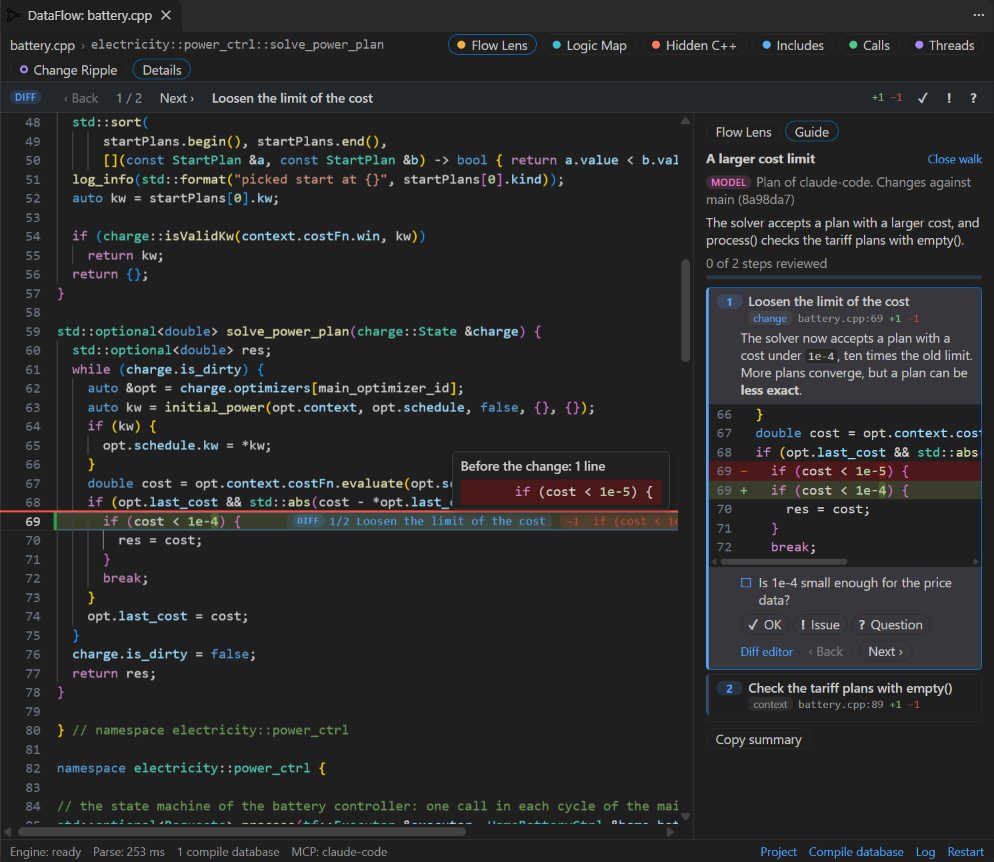
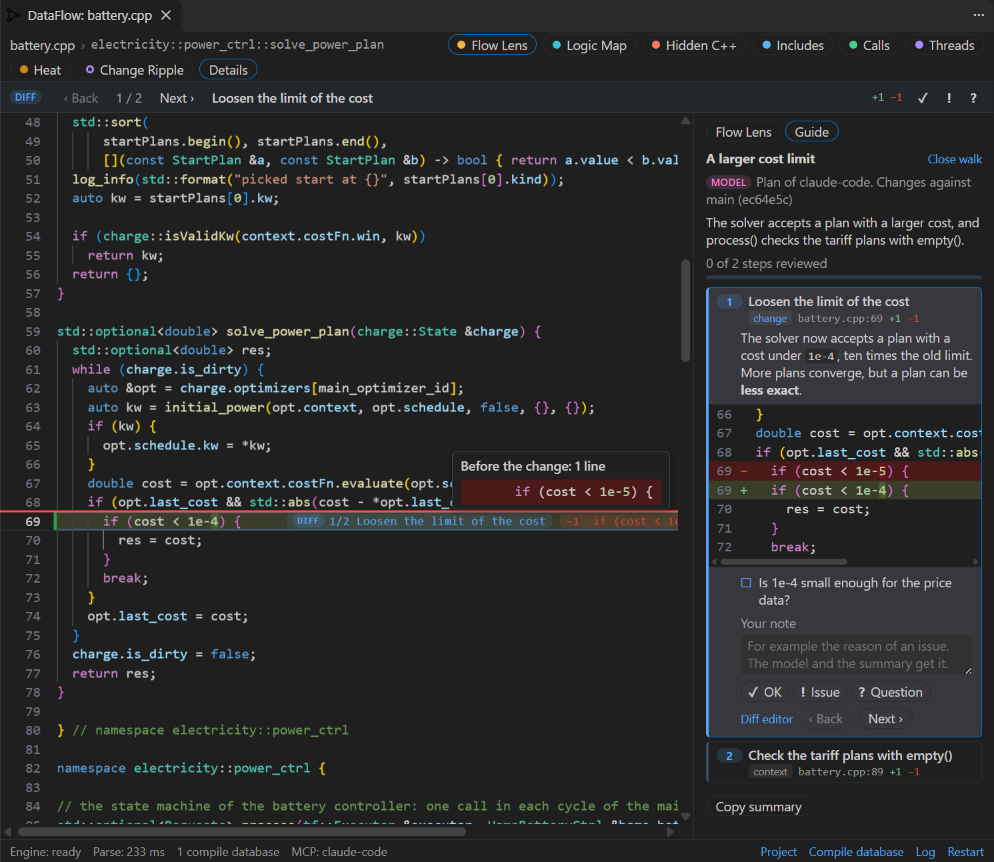
Set the version to 0.6.0 for the seventh release
- The extension and the engine have the version 0.6.0.
- The changelog gives the changes of 0.6.0: the layers of the
  clients, the stack of guides, the marks, the new read tools
  get_call_graph, get_callers, get_place and get_member_sites, the
  index of the uses in the call graph, and the tools and the tab of
  an extension.
- The install guide shows the file name of the new VSIX package.
- The screenshots of the guided review and of the diff walk show the
  field for the note of the user in the tab Guide.

diff --git a/engine/include/dataflow/server.hpp b/engine/include/dataflow/server.hpp
@@ -313,7 +313,7 @@ namespace DataFlow {
     _srv.isInitialized_ = true;
 
     return JsonObject{
-        {"name", "dataflow-engine"},   {"version", "0.5.0"},          {"clang", clang::getClangFullVersion()},
+        {"name", "dataflow-engine"},   {"version", "0.6.0"},          {"clang", clang::getClangFullVersion()},
         {"databases", std::move(dbs)}, {"threads", int64_t(threads)}, {"cacheSize", int64_t(cache_size)},
         {"loadMs", elapsed_ms(start)}};
   }  // handle_initialize

diff --git a/CHANGELOG.md b/CHANGELOG.md
@@ -1,6 +1,6 @@
 # Changelog
 
-## Unreleased
+## 0.6.0
 
 - `get_heat` gives `signals`: each reason of a function with the id and the measure of its signal, for example the frame path as a list of functions. A client can use the signals with no need to read the texts.
 - Each function of `get_heat` has `isReachComplete`: false until the call graph gives its reach. Then the score can be too low or too high. The changed functions of `get_review` and `get_diff` also give it.

diff --git a/docs/install.md b/docs/install.md
@@ -25,7 +25,7 @@ You need VS Code 1.120 or later.
 3. In VS Code, open the Extensions view. Click **…** at the top of the view, then click **Install from VSIX…**, and select the file. You can also install the file with a command in a terminal:
 
    ```bat
-   code --install-extension dataflow-win32-x64-0.5.0.vsix
+   code --install-extension dataflow-win32-x64-0.6.0.vsix
    ```
 
 4. Open a C++ project. [Open your first project](#open-your-first-project) tells how.
